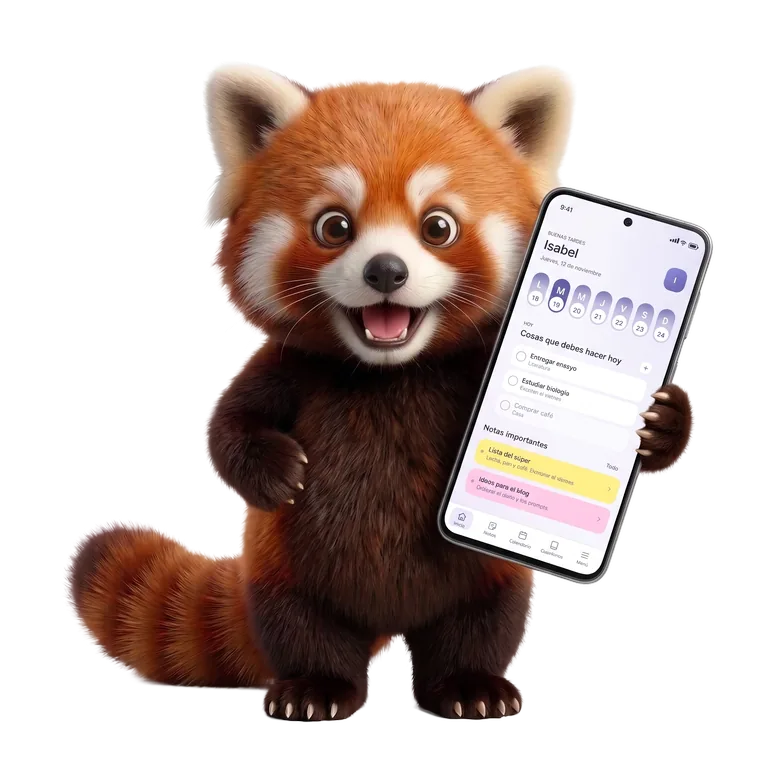
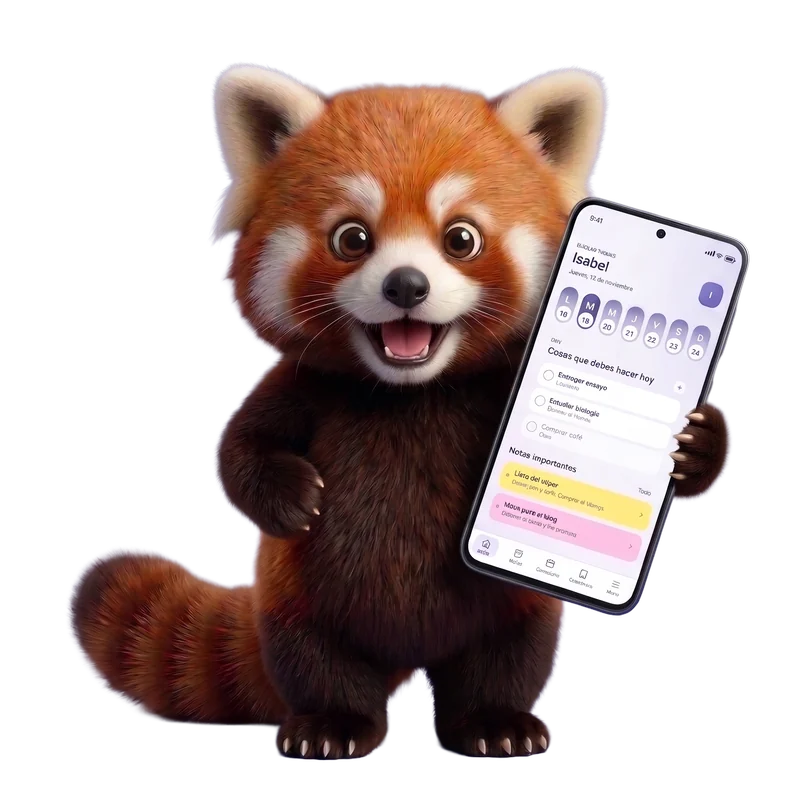
feat(home): nueva imagen de panda con planner mas grande, CSS v25

diff --git a/alquimialab-web/productos.html b/alquimialab-web/productos.html
@@ -27,7 +27,7 @@
   <link rel="preconnect" href="https://fonts.googleapis.com">
   <link rel="preconnect" href="https://fonts.gstatic.com" crossorigin>
   <link href="https://fonts.googleapis.com/css2?family=Quicksand:wght@400;500;600;700&display=swap" rel="stylesheet">
-  <link rel="stylesheet" href="css/style.css?v=24">
+  <link rel="stylesheet" href="css/style.css?v=25">
   <link rel="stylesheet" href="css/shop.css?v=2">
   <script async src="https://pagead2.googlesyndication.com/pagead/js/adsbygoogle.js?client=ca-pub-6568715444285154" crossorigin="anonymous"></script>
   <script async src="https://www.googletagmanager.com/gtag/js?id=G-Y8Z50HWV3J"></script>

diff --git a/alquimialab-web/delete-account.html b/alquimialab-web/delete-account.html
@@ -11,7 +11,7 @@
   <link rel="preconnect" href="https://fonts.googleapis.com">
   <link rel="preconnect" href="https://fonts.gstatic.com" crossorigin>
   <link href="https://fonts.googleapis.com/css2?family=Quicksand:wght@400;500;600;700&display=swap" rel="stylesheet">
-  <link rel="stylesheet" href="css/style.css?v=24">
+  <link rel="stylesheet" href="css/style.css?v=25">
   <link rel="icon" type="image/svg+xml" href="assets/favicon.svg">
   <script src="js/lang.js?v=9" defer></script>
   <script async src="https://pagead2.googlesyndication.com/pagead/js/adsbygoogle.js?client=ca-pub-6568715444285154" crossorigin="anonymous"></script>

diff --git a/alquimialab-web/politica-privacidad.html b/alquimialab-web/politica-privacidad.html
@@ -11,7 +11,7 @@
   <link rel="preconnect" href="https://fonts.googleapis.com">
   <link rel="preconnect" href="https://fonts.gstatic.com" crossorigin>
   <link href="https://fonts.googleapis.com/css2?family=Quicksand:wght@400;500;600;700&display=swap" rel="stylesheet">
-  <link rel="stylesheet" href="css/style.css?v=24">
+  <link rel="stylesheet" href="css/style.css?v=25">
   <link rel="icon" type="image/svg+xml" href="assets/favicon.svg">
   <script src="js/lang.js?v=9" defer></script>
   <script async src="https://pagead2.googlesyndication.com/pagead/js/adsbygoogle.js?client=ca-pub-6568715444285154" crossorigin="anonymous"></script>

diff --git a/alquimialab-web/terminos.html b/alquimialab-web/terminos.html
@@ -11,7 +11,7 @@
   <link rel="preconnect" href="https://fonts.googleapis.com">
   <link rel="preconnect" href="https://fonts.gstatic.com" crossorigin>
   <link href="https://fonts.googleapis.com/css2?family=Quicksand:wght@400;500;600;700&display=swap" rel="stylesheet">
-  <link rel="stylesheet" href="css/style.css?v=24">
+  <link rel="stylesheet" href="css/style.css?v=25">
   <link rel="icon" type="image/svg+xml" href="assets/favicon.svg">
   <script src="js/lang.js?v=9" defer></script>
   <script async src="https://pagead2.googlesyndication.com/pagead/js/adsbygoogle.js?client=ca-pub-6568715444285154" crossorigin="anonymous"></script>

diff --git a/alquimialab-web/blog-ai-criteria.html b/alquimialab-web/blog-ai-criteria.html
@@ -18,7 +18,7 @@
   <link rel="preconnect" href="https://fonts.googleapis.com">
   <link rel="preconnect" href="https://fonts.gstatic.com" crossorigin>
   <link href="https://fonts.googleapis.com/css2?family=Quicksand:wght@400;500;600;700&display=swap" rel="stylesheet">
-  <link rel="stylesheet" href="css/style.css?v=24">
+  <link rel="stylesheet" href="css/style.css?v=25">
   <script async src="https://pagead2.googlesyndication.com/pagead/js/adsbygoogle.js?client=ca-pub-6568715444285154" crossorigin="anonymous"></script>
   <script async src="https://www.googletagmanager.com/gtag/js?id=G-Y8Z50HWV3J"></script>
   <script>

diff --git a/alquimialab-web/blog-notion-mistakes.html b/alquimialab-web/blog-notion-mistakes.html
@@ -18,7 +18,7 @@
   <link rel="preconnect" href="https://fonts.googleapis.com">
   <link rel="preconnect" href="https://fonts.gstatic.com" crossorigin>
   <link href="https://fonts.googleapis.com/css2?family=Quicksand:wght@400;500;600;700&display=swap" rel="stylesheet">
-  <link rel="stylesheet" href="css/style.css?v=24">
+  <link rel="stylesheet" href="css/style.css?v=25">
   <script async src="https://pagead2.googlesyndication.com/pagead/js/adsbygoogle.js?client=ca-pub-6568715444285154" crossorigin="anonymous"></script>
   <script async src="https://www.googletagmanager.com/gtag/js?id=G-Y8Z50HWV3J"></script>
   <script>

diff --git a/alquimialab-web/blog-one-dashboard.html b/alquimialab-web/blog-one-dashboard.html
@@ -18,7 +18,7 @@
   <link rel="preconnect" href="https://fonts.googleapis.com">
   <link rel="preconnect" href="https://fonts.gstatic.com" crossorigin>
   <link href="https://fonts.googleapis.com/css2?family=Quicksand:wght@400;500;600;700&display=swap" rel="stylesheet">
-  <link rel="stylesheet" href="css/style.css?v=24">
+  <link rel="stylesheet" href="css/style.css?v=25">
   <script async src="https://pagead2.googlesyndication.com/pagead/js/adsbygoogle.js?client=ca-pub-6568715444285154" crossorigin="anonymous"></script>
   <script async src="https://www.googletagmanager.com/gtag/js?id=G-Y8Z50HWV3J"></script>
   <script>

diff --git a/alquimialab-web/blog-one-woman-studio.html b/alquimialab-web/blog-one-woman-studio.html
@@ -18,7 +18,7 @@
   <link rel="preconnect" href="https://fonts.googleapis.com">
   <link rel="preconnect" href="https://fonts.gstatic.com" crossorigin>
   <link href="https://fonts.googleapis.com/css2?family=Quicksand:wght@400;500;600;700&display=swap" rel="stylesheet">
-  <link rel="stylesheet" href="css/style.css?v=24">
+  <link rel="stylesheet" href="css/style.css?v=25">
   <script async src="https://pagead2.googlesyndication.com/pagead/js/adsbygoogle.js?client=ca-pub-6568715444285154" crossorigin="anonymous"></script>
   <script async src="https://www.googletagmanager.com/gtag/js?id=G-Y8Z50HWV3J"></script>
   <script>

diff --git a/alquimialab-web/blog-todo-list.html b/alquimialab-web/blog-todo-list.html
@@ -18,7 +18,7 @@
   <link rel="preconnect" href="https://fonts.googleapis.com">
   <link rel="preconnect" href="https://fonts.gstatic.com" crossorigin>
   <link href="https://fonts.googleapis.com/css2?family=Quicksand:wght@400;500;600;700&display=swap" rel="stylesheet">
-  <link rel="stylesheet" href="css/style.css?v=24">
+  <link rel="stylesheet" href="css/style.css?v=25">
   <script async src="https://pagead2.googlesyndication.com/pagead/js/adsbygoogle.js?client=ca-pub-6568715444285154" crossorigin="anonymous"></script>
   <script async src="https://www.googletagmanager.com/gtag/js?id=G-Y8Z50HWV3J"></script>
   <script>

diff --git a/alquimialab-web/blog.html b/alquimialab-web/blog.html
@@ -17,7 +17,7 @@
   <link rel="preconnect" href="https://fonts.googleapis.com">
   <link rel="preconnect" href="https://fonts.gstatic.com" crossorigin>
   <link href="https://fonts.googleapis.com/css2?family=Quicksand:wght@400;500;600;700&display=swap" rel="stylesheet">
-  <link rel="stylesheet" href="css/style.css?v=24">
+  <link rel="stylesheet" href="css/style.css?v=25">
   <script async src="https://pagead2.googlesyndication.com/pagead/js/adsbygoogle.js?client=ca-pub-6568715444285154" crossorigin="anonymous"></script>
   <script async src="https://www.googletagmanager.com/gtag/js?id=G-Y8Z50HWV3J"></script>
   <script>

diff --git a/alquimialab-web/planner-2027.html b/alquimialab-web/planner-2027.html
@@ -14,7 +14,7 @@
   <link rel="preconnect" href="https://fonts.googleapis.com">
   <link rel="preconnect" href="https://fonts.gstatic.com" crossorigin>
   <link href="https://fonts.googleapis.com/css2?family=Quicksand:wght@400;500;600;700&display=swap" rel="stylesheet">
-  <link rel="stylesheet" href="css/style.css?v=24">
+  <link rel="stylesheet" href="css/style.css?v=25">
   <script async src="https://pagead2.googlesyndication.com/pagead/js/adsbygoogle.js?client=ca-pub-6568715444285154" crossorigin="anonymous"></script>
   <script async src="https://www.googletagmanager.com/gtag/js?id=G-Y8Z50HWV3J"></script>
   <script>

diff --git a/alquimialab-web/ai-characters.html b/alquimialab-web/ai-characters.html
@@ -13,7 +13,7 @@
   <link rel="preconnect" href="https://fonts.googleapis.com">
   <link rel="preconnect" href="https://fonts.gstatic.com" crossorigin>
   <link href="https://fonts.googleapis.com/css2?family=Quicksand:wght@400;500;600;700&display=swap" rel="stylesheet">
-  <link rel="stylesheet" href="css/style.css?v=24">
+  <link rel="stylesheet" href="css/style.css?v=25">
   <script async src="https://pagead2.googlesyndication.com/pagead/js/adsbygoogle.js?client=ca-pub-6568715444285154" crossorigin="anonymous"></script>
   <script async src="https://www.googletagmanager.com/gtag/js?id=G-Y8Z50HWV3J"></script>
 <script>
